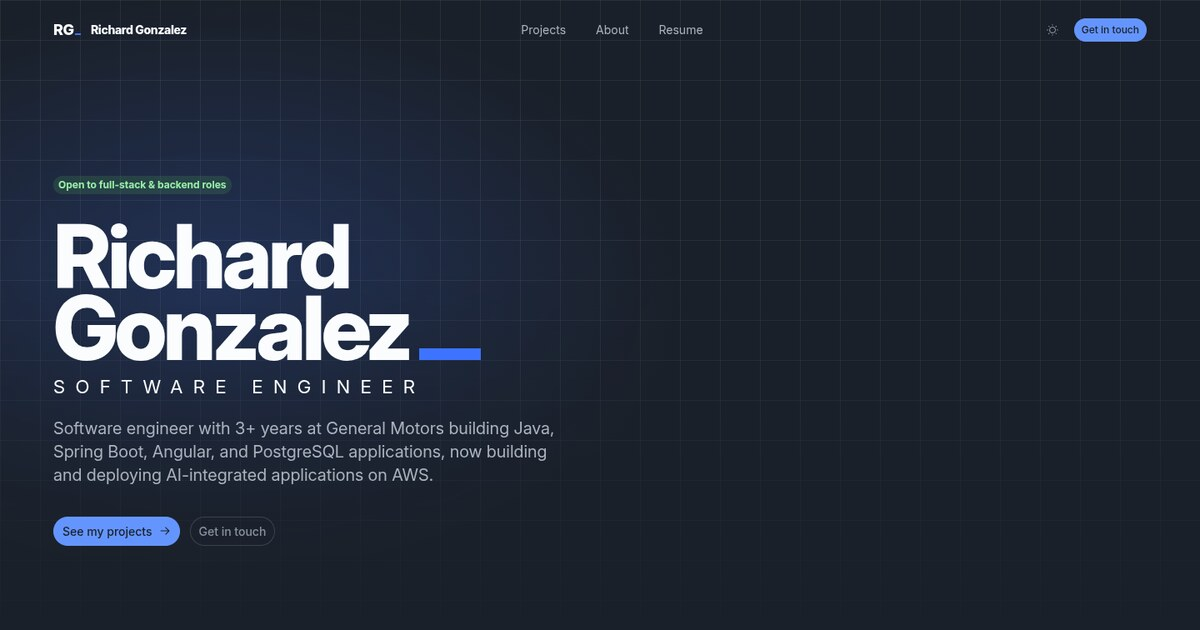
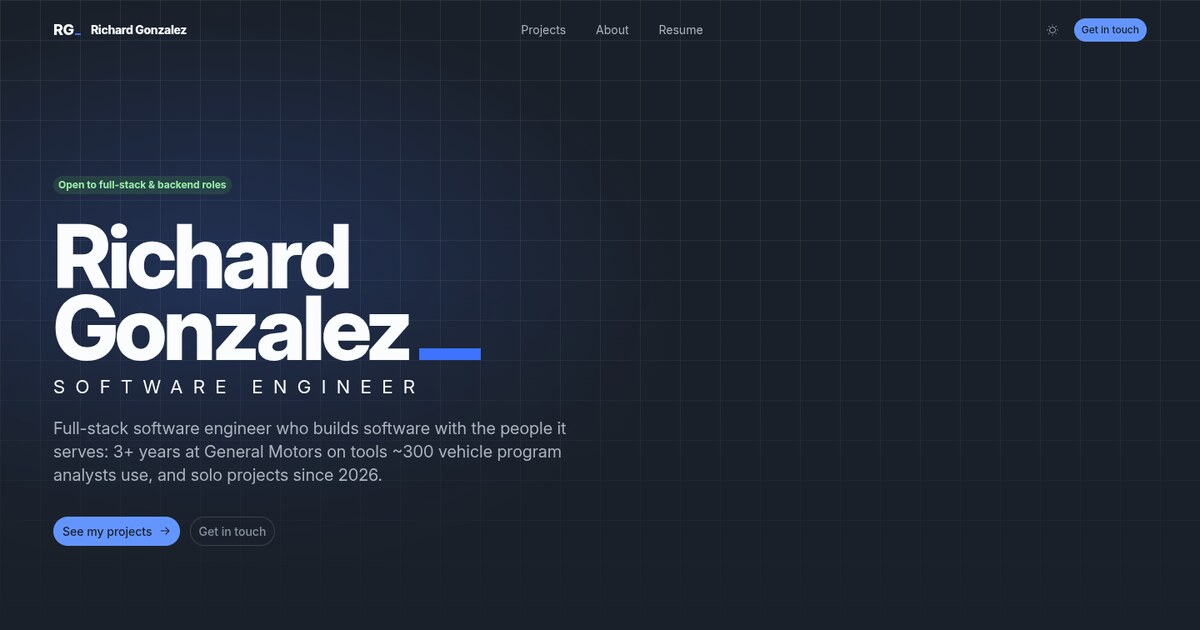
feat(content): match the site to the latest resume

Changed region(s): [[0.0308, 0.6635, 0.4625, 0.7841]]

diff --git a/src/app/core/content.ts b/src/app/core/content.ts
@@ -48,12 +48,14 @@ export const PROFILE = {
   location: 'Austin, TX',
   email: 'richard@rgonz.dev',
   availability: 'Open to full-stack & backend roles',
-  lede: 'Software engineer with 3+ years at General Motors building Java, Spring Boot, Angular, and PostgreSQL applications, now building and deploying AI-integrated applications on AWS.',
+  // Also the description in src/index.html; keep the two in step.
+  lede: 'Full-stack software engineer who builds software with the people it serves: 3+ years at General Motors on tools ~300 vehicle program analysts use, and solo projects since 2026.',
   headline: "Hi, I'm Richard.",
   about: [
-    'Software engineer who designs and develops applications with Java, Spring Boot, Angular, and PostgreSQL, working directly with business users to turn requirements into features, optimize performance, and improve software quality.',
-    'For 3+ years at General Motors, I built and maintained internal applications that configure vehicle features for ~300 business users across 40+ vehicle programs. I gathered requirements directly from business stakeholders, demoed progress to them twice a week, and took features from request to production: cutting vehicle-catalog load times from ~20s to 2s, migrating an app to Kubernetes ahead of a deadline carrying a $1M+ penalty, and raising JUnit coverage from ~20% to 90% across seven microservices.',
-    'I also build and deploy AI-integrated applications on AWS on my own, using Terraform and CI/CD. My latest, Vehicle Catalog, adds approval workflows, versioning, and AI-assisted rule drafting with validated output and a $1/day spending limit.',
+    "I'm a full-stack software engineer who builds software with the people it serves.",
+    'For 3+ years at General Motors, I worked on the internal tools ~300 vehicle program analysts use to plan the features and options of 40+ vehicle programs. I met with those analysts twice a week, turned their requests into features, and went after whatever slowed them down. One slow database query made catalogs take 20 seconds to open (2 minutes for trucks); after I tuned it, they opened in 2, giving analysts back an estimated 1,000+ hours a year. Another feature halved their manual data entry.',
+    "I love solving hard, complex problems, and the best part is seeing people have a great experience with something I built. I'm always looking for ways to make an app faster or easier to use, and quality matters to me: I added our app's first frontend tests and raised backend test coverage from about 20% to 90%.",
+    "Since 2026, I've been building full-stack projects on my own, from the user interface to the AWS hosting. The latest, Vehicle Catalog, is live: a spreadsheet-style catalog editor with a manager's approval, version history, and AI that proposes rules for a person to sign off.",
   ],
   currently: [
     'Based in Austin, TX',
@@ -99,6 +101,7 @@ export const SKILLS: SkillGroup[] = [
       'CloudFront',
       'SQS',
       'Cognito',
+      'ECR',
       'IAM',
       'Terraform',
       'Docker',
@@ -130,7 +133,7 @@ export const FEATURED_PROJECT: Project = {
   year: '2026',
   role: 'Full-stack',
   summary:
-    'Solo-built an AWS-hosted catalog management platform with a 48,000-cell autosaving grid, rule validation, approvals, versioning, and three-way merge, cutting the largest save from 517 ms to 57 ms. Spring AI drafts rules, analyzes changes with tool calling, and searches documents with pgvector RAG behind Java-side output validation and an atomic $1/day spending limit; Terraform and GitHub Actions deploy it across EC2, CloudFront, S3, Cognito, SQS, and ECR with keyless OIDC and health-check rollback.',
+    "A solo, from-scratch vehicle catalog app that defines each vehicle's features, live as a public demo: edit a catalog like a spreadsheet, submit changes for approval, track every version, and have AI propose rules. 24 design records and 1,100+ tests on GitHub.",
   stack: ['Java', 'Spring Boot', 'Spring AI', 'Angular', 'PostgreSQL', 'Redis', 'AWS', 'Terraform'],
   cover: '/projects/vehicle-catalog.webp',
   coverDark: '/projects/vehicle-catalog-dark.webp',
@@ -152,7 +155,7 @@ export const PROJECT_YEARS = [
 
 export const RESUME = {
   summary:
-    'Software engineer with 3+ years of experience designing and developing applications using Java, Spring Boot, Angular, and PostgreSQL. Collaborates directly with business users to translate requirements into features, optimize performance, and improve software quality. Independently builds and deploys AI-integrated applications on AWS using Terraform and CI/CD.',
+    'Full-stack software engineer who builds software with the people it serves. Spent 3+ years at General Motors meeting twice a week with vehicle program analysts and turning their pain points into features, like a 20-second wait cut to 2. In 2026, independently delivered a complete AI-assisted web app, from the user interface to the AWS hosting.',
   experience: [
     {
       company: 'General Motors',
@@ -161,13 +164,14 @@ export const RESUME = {
       start: 'Jan 2023',
       end: 'May 2026',
       summary:
-        'Developed and maintained vehicle-configuration applications serving ~300 business users across 40+ vehicle programs, along with a supplier-warranty claims platform.',
+        'One of 5 developers on internal tools ~300 GM vehicle program analysts use to plan the features and options of 40+ programs.',
+      // The resume's bullets without their tool lists, which the stack chips show.
       highlights: [
-        'Engineered an automated vehicle-option rule management feature using Angular, Spring Boot, and PostgreSQL, lowering manual updates by 50% and preventing invalid data from reaching downstream systems.',
-        'Optimized PostgreSQL query performance using JMeter and EXPLAIN to identify and fix an unbounded subquery, cutting vehicle-catalog load times from ~20s to 2s (truck catalogs from ~2 min to 20s) across 1,000+ catalogs.',
-        'Migrated a vehicle-program application from Pivotal Cloud Foundry to on-premises Kubernetes ahead of a deadline carrying $1M+ in penalties, building deployment manifests and a CI/CD pipeline reused by three other teams.',
-        'Modernized a security-flagged vehicle-configuration application by independently upgrading Angular 15 to 18 and Spring Boot 2.7 to 3.4, resolving PrimeNG and Spring Security compatibility issues to restore security support.',
-        "Automated regression testing by introducing the frontend's first Jest and Playwright suites (0% to 50% coverage) and increasing JUnit coverage from ~20% to 90% across seven microservices, shifting defect detection from UAT into CI.",
+        'Slashed vehicle catalog load times 90% (~20 s to 2 s; trucks ~2 min to 20 s) by tuning one slow database query, sparing analysts an estimated 1,000+ hours of waiting per year.',
+        "Halved analysts' manual data entry with a feature that mirrors each paired vehicle-option rule, keeping mismatched rules out of about a dozen downstream GM systems.",
+        "Migrated a vehicle-planning app onto GM's in-house hosting platform ahead of a deadline carrying $1M+ in penalties; three other teams then adopted the deployment setup and release pipeline created for it.",
+        'Closed a must-fix security flag on the planning tool ~300 analysts rely on, single-handedly modernizing its outdated core frameworks and repairing everything the upgrade broke (Angular 15 to 18, Spring Boot 2.7 to 3.4).',
+        "Hardened every release with automated tests that block a build when a core workflow fails: the frontend's first tests (0% to 50% coverage) and backend coverage from ~20% to 90% across seven services.",
       ],
       stack: [
         'Java',
@@ -175,7 +179,9 @@ export const RESUME = {
         'Angular',
         'PrimeNG',
         'PostgreSQL',
+        'JMeter',
         'Kubernetes',
+        'CI/CD',
         'Jest',
         'Playwright',
         'JUnit',

diff --git a/src/index.html b/src/index.html
@@ -7,12 +7,12 @@
     <meta name="viewport" content="width=device-width, initial-scale=1" />
     <meta
       name="description"
-      content="Software engineer with 3+ years at General Motors building Java, Spring Boot, Angular, and PostgreSQL applications, now building and deploying AI-integrated applications on AWS."
+      content="Full-stack software engineer who builds software with the people it serves: 3+ years at General Motors on tools ~300 vehicle program analysts use, and solo projects since 2026."
     />
     <meta property="og:title" content="Richard Gonzalez · Software Engineer" />
     <meta
       property="og:description"
-      content="Software engineer with 3+ years at General Motors building Java, Spring Boot, Angular, and PostgreSQL applications, now building and deploying AI-integrated applications on AWS."
+      content="Full-stack software engineer who builds software with the people it serves: 3+ years at General Motors on tools ~300 vehicle program analysts use, and solo projects since 2026."
     />
     <meta property="og:type" content="website" />
     <!-- Crawlers (LinkedIn, Slack) need absolute URLs for the link preview. -->
